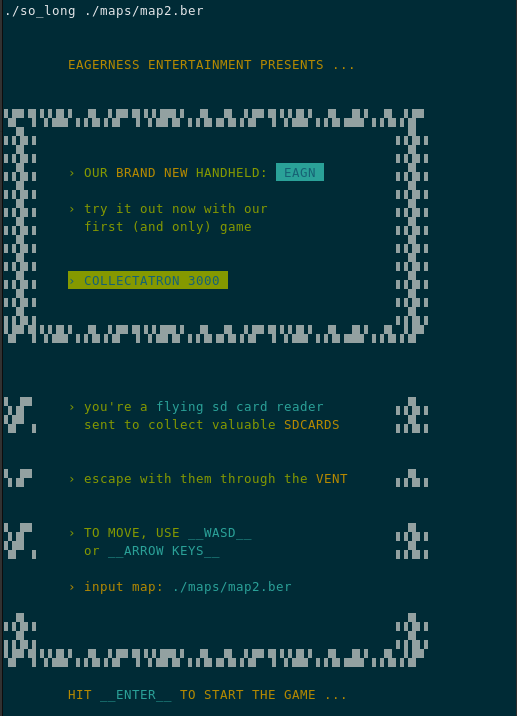
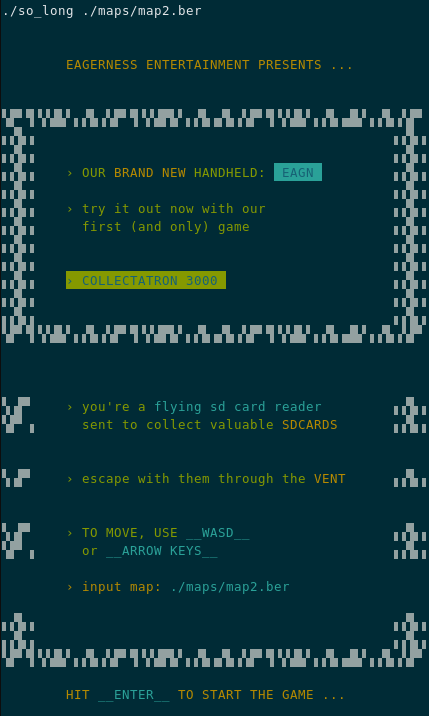
centered images and added to-do list

diff --git a/README.md b/README.md
@@ -16,8 +16,22 @@ _**so_long**_ is the very first graphical project in the 42 cursus. Taking advan
 
 The concept of my so_long is based on the handheld style and feel of the gameboy. In it you play as an SDCARD reader and collect SDCARDS. After collecting them all you can escape through the vent. As simple as that.
 
-![video_demo_exe2](/demo/video_demo_exe2.gif)
-![window_demo_exe3](/demo/window_demo_exe3.png)
+<img
+	src="demo/video_demo_exe2.gif"
+	alt="video_demo_exe2"
+	style="display: block; 
+           margin-left: auto;
+           margin-right: auto;
+           width: auto;">
+</img>
+<img
+	src="demo/window_demo_exe3.png"
+	alt="window_demo_exe3"
+	style="display: block; 
+           margin-left: auto;
+           margin-right: auto;
+           width: auto;">
+</img>
 
 If you want to try this out for yourself you can simply clone this repository and do the following:
 
@@ -27,7 +41,14 @@ make levels
 
 That will compile the program and run it sequentially with 8 maps I created.
 
-![terminal_demo](/demo/terminal_demo.png)
+<img
+	src="demo/terminal_demo.png"
+	alt="terminal_demo"
+	style="display: block; 
+           margin-left: auto;
+           margin-right: auto;
+           width: auto;">
+</img>
 
 ## INPUT AND MAPS
 
@@ -57,12 +78,35 @@ As previously mentioned the concept of this so_long is based on the gameboy, whi
 
 For the small maps to not be too little to see I created two sets of sprites (45x45, 90x90) from which the program would pick and adapt depending on the size of the given map!
 
-![sprite_sheet](/demo/sprite_sheet.png)
+<img
+	src="demo/sprite_sheet.png"
+	alt="sprite_sheet"
+	style="display: block; 
+           margin-left: auto;
+           margin-right: auto;
+           width: 80%;">
+</img>
 
 There's also a few extra details like buttons and a logo that show up (or not) also based on the mapsize.
 
-![window_demo_exe7](/demo/window_demo_exe2.png)
+<img
+	src="demo/window_demo_exe2.png"
+	alt="window_demo_exe7"
+	style="display: block; 
+           margin-left: auto;
+           margin-right: auto;
+           width: auto;">
+</img>
 
 ## CONCLUSION
 
 Despite the simple premise I learnt a lot from this project, not only how to do the most whislt using the least amount of sprites, like how it was usual for games in older consoles with hardware limitations, by flipping and rotating them inside the program. But also technical things such as the full potential of **Makefile rules** and the utility of **compound literals**. 
+
+#### 🦾 POSSIBLE FUTURE IMPROVEMENTS:
+
+* Adding fps and animations
+* Adding enemies
+* Less use of the heap and more use of the stack
+* Use of sprite sheets instead of individual sprites
+* Aesthetic improvement to buttons and logo assets
+* Make the buttons on screen visually change when you're moving
